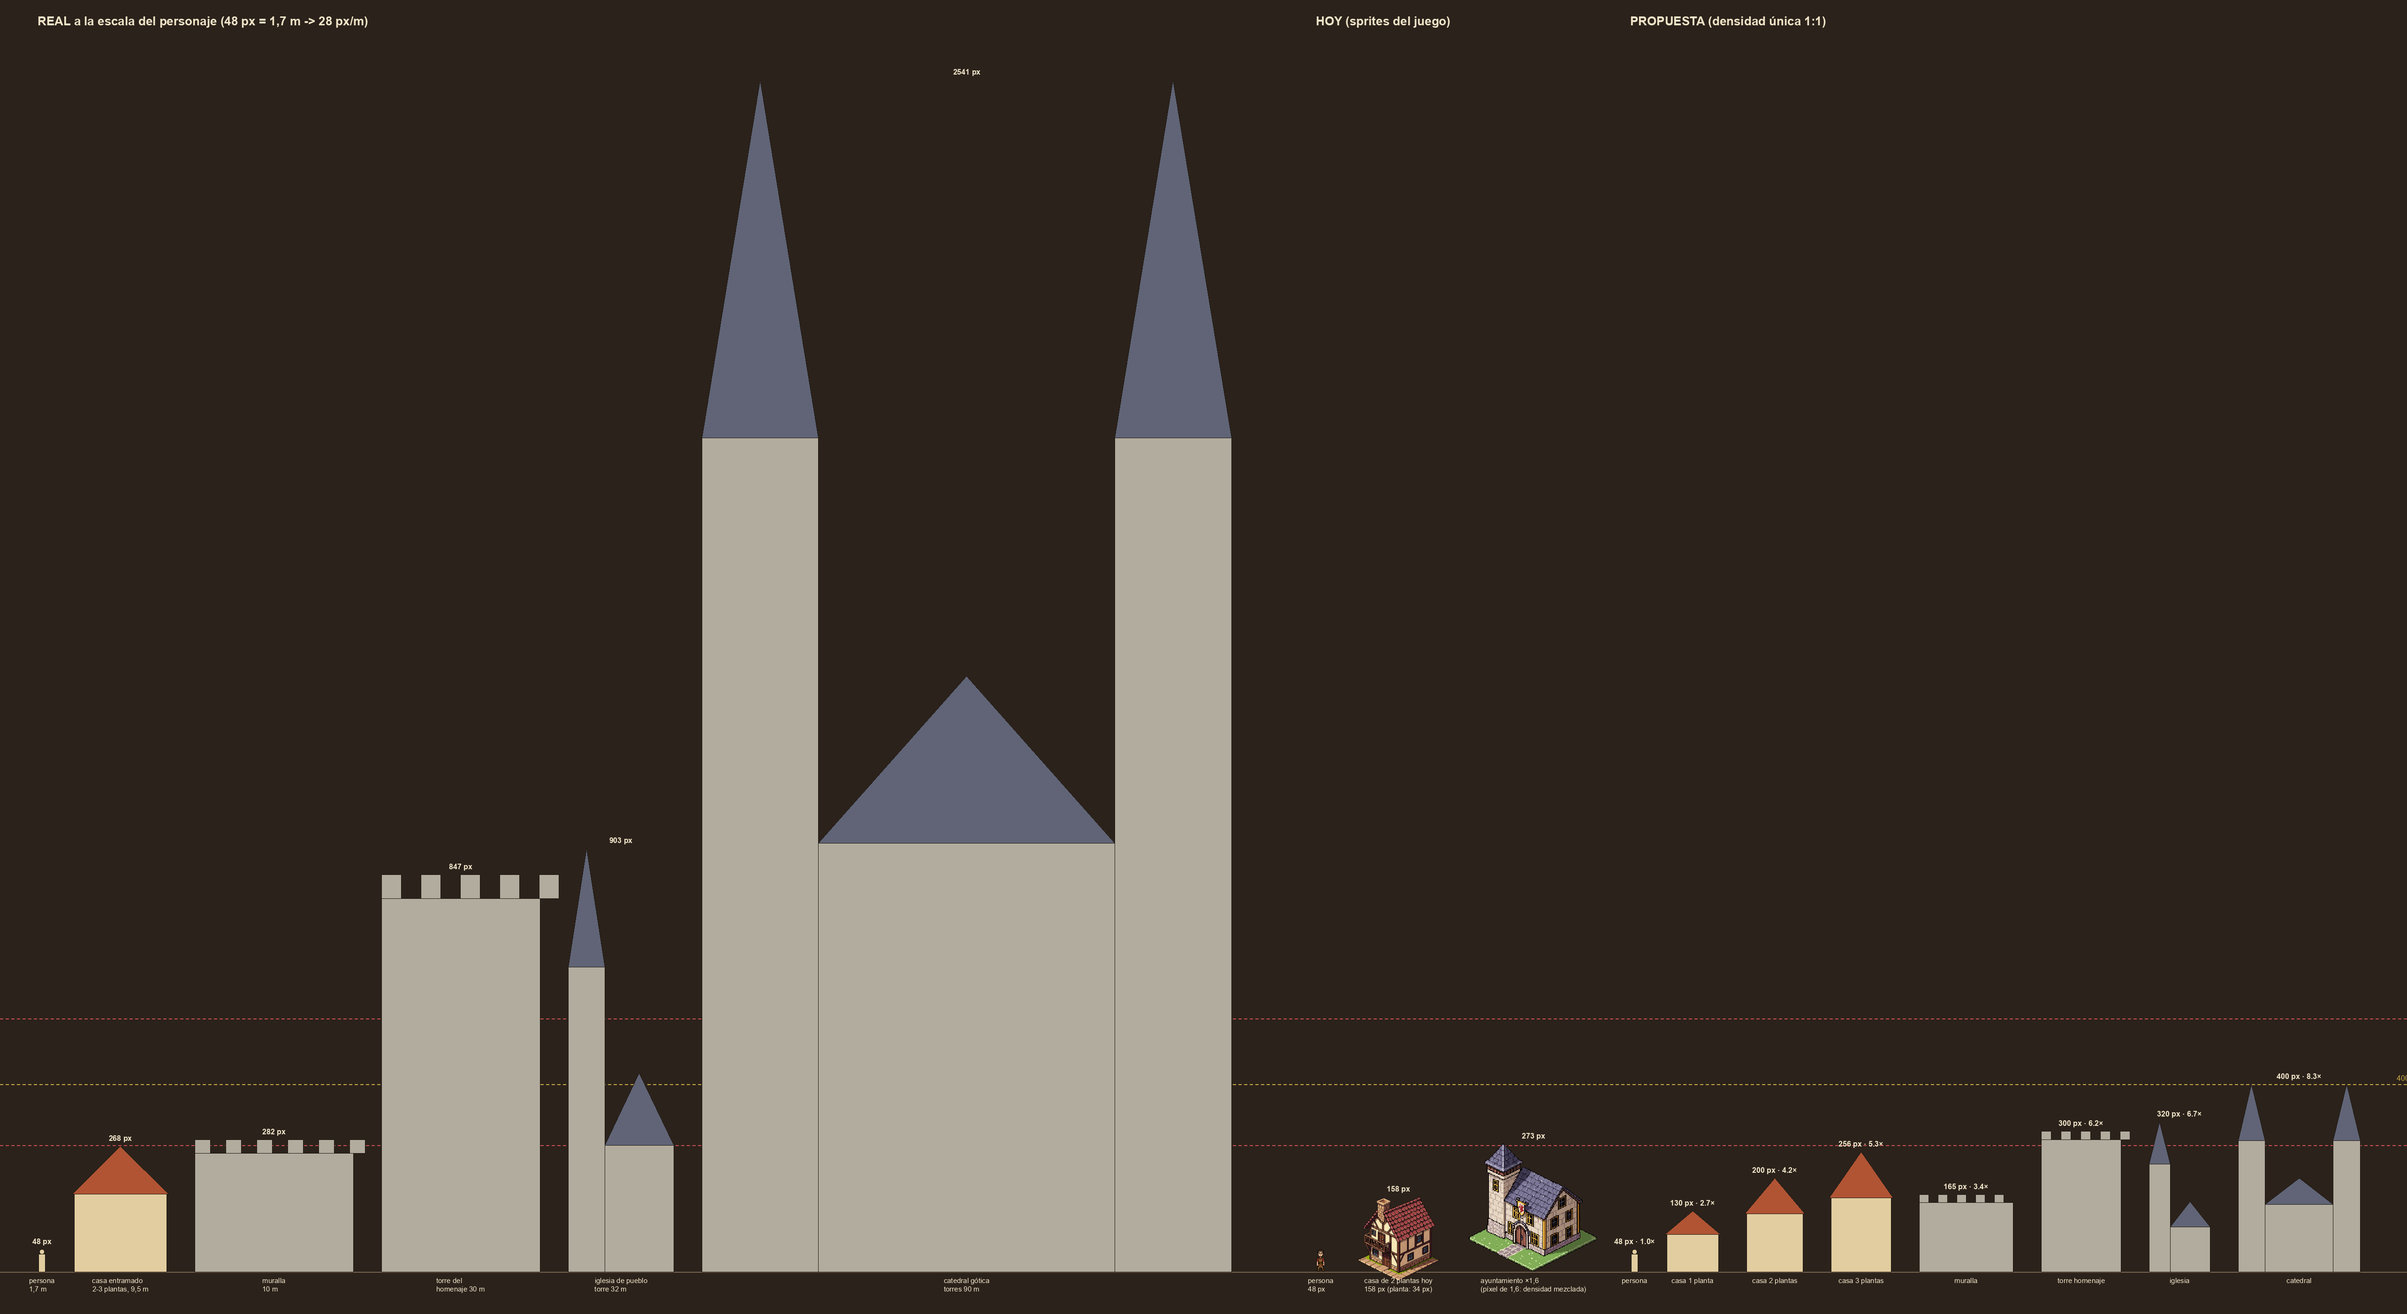
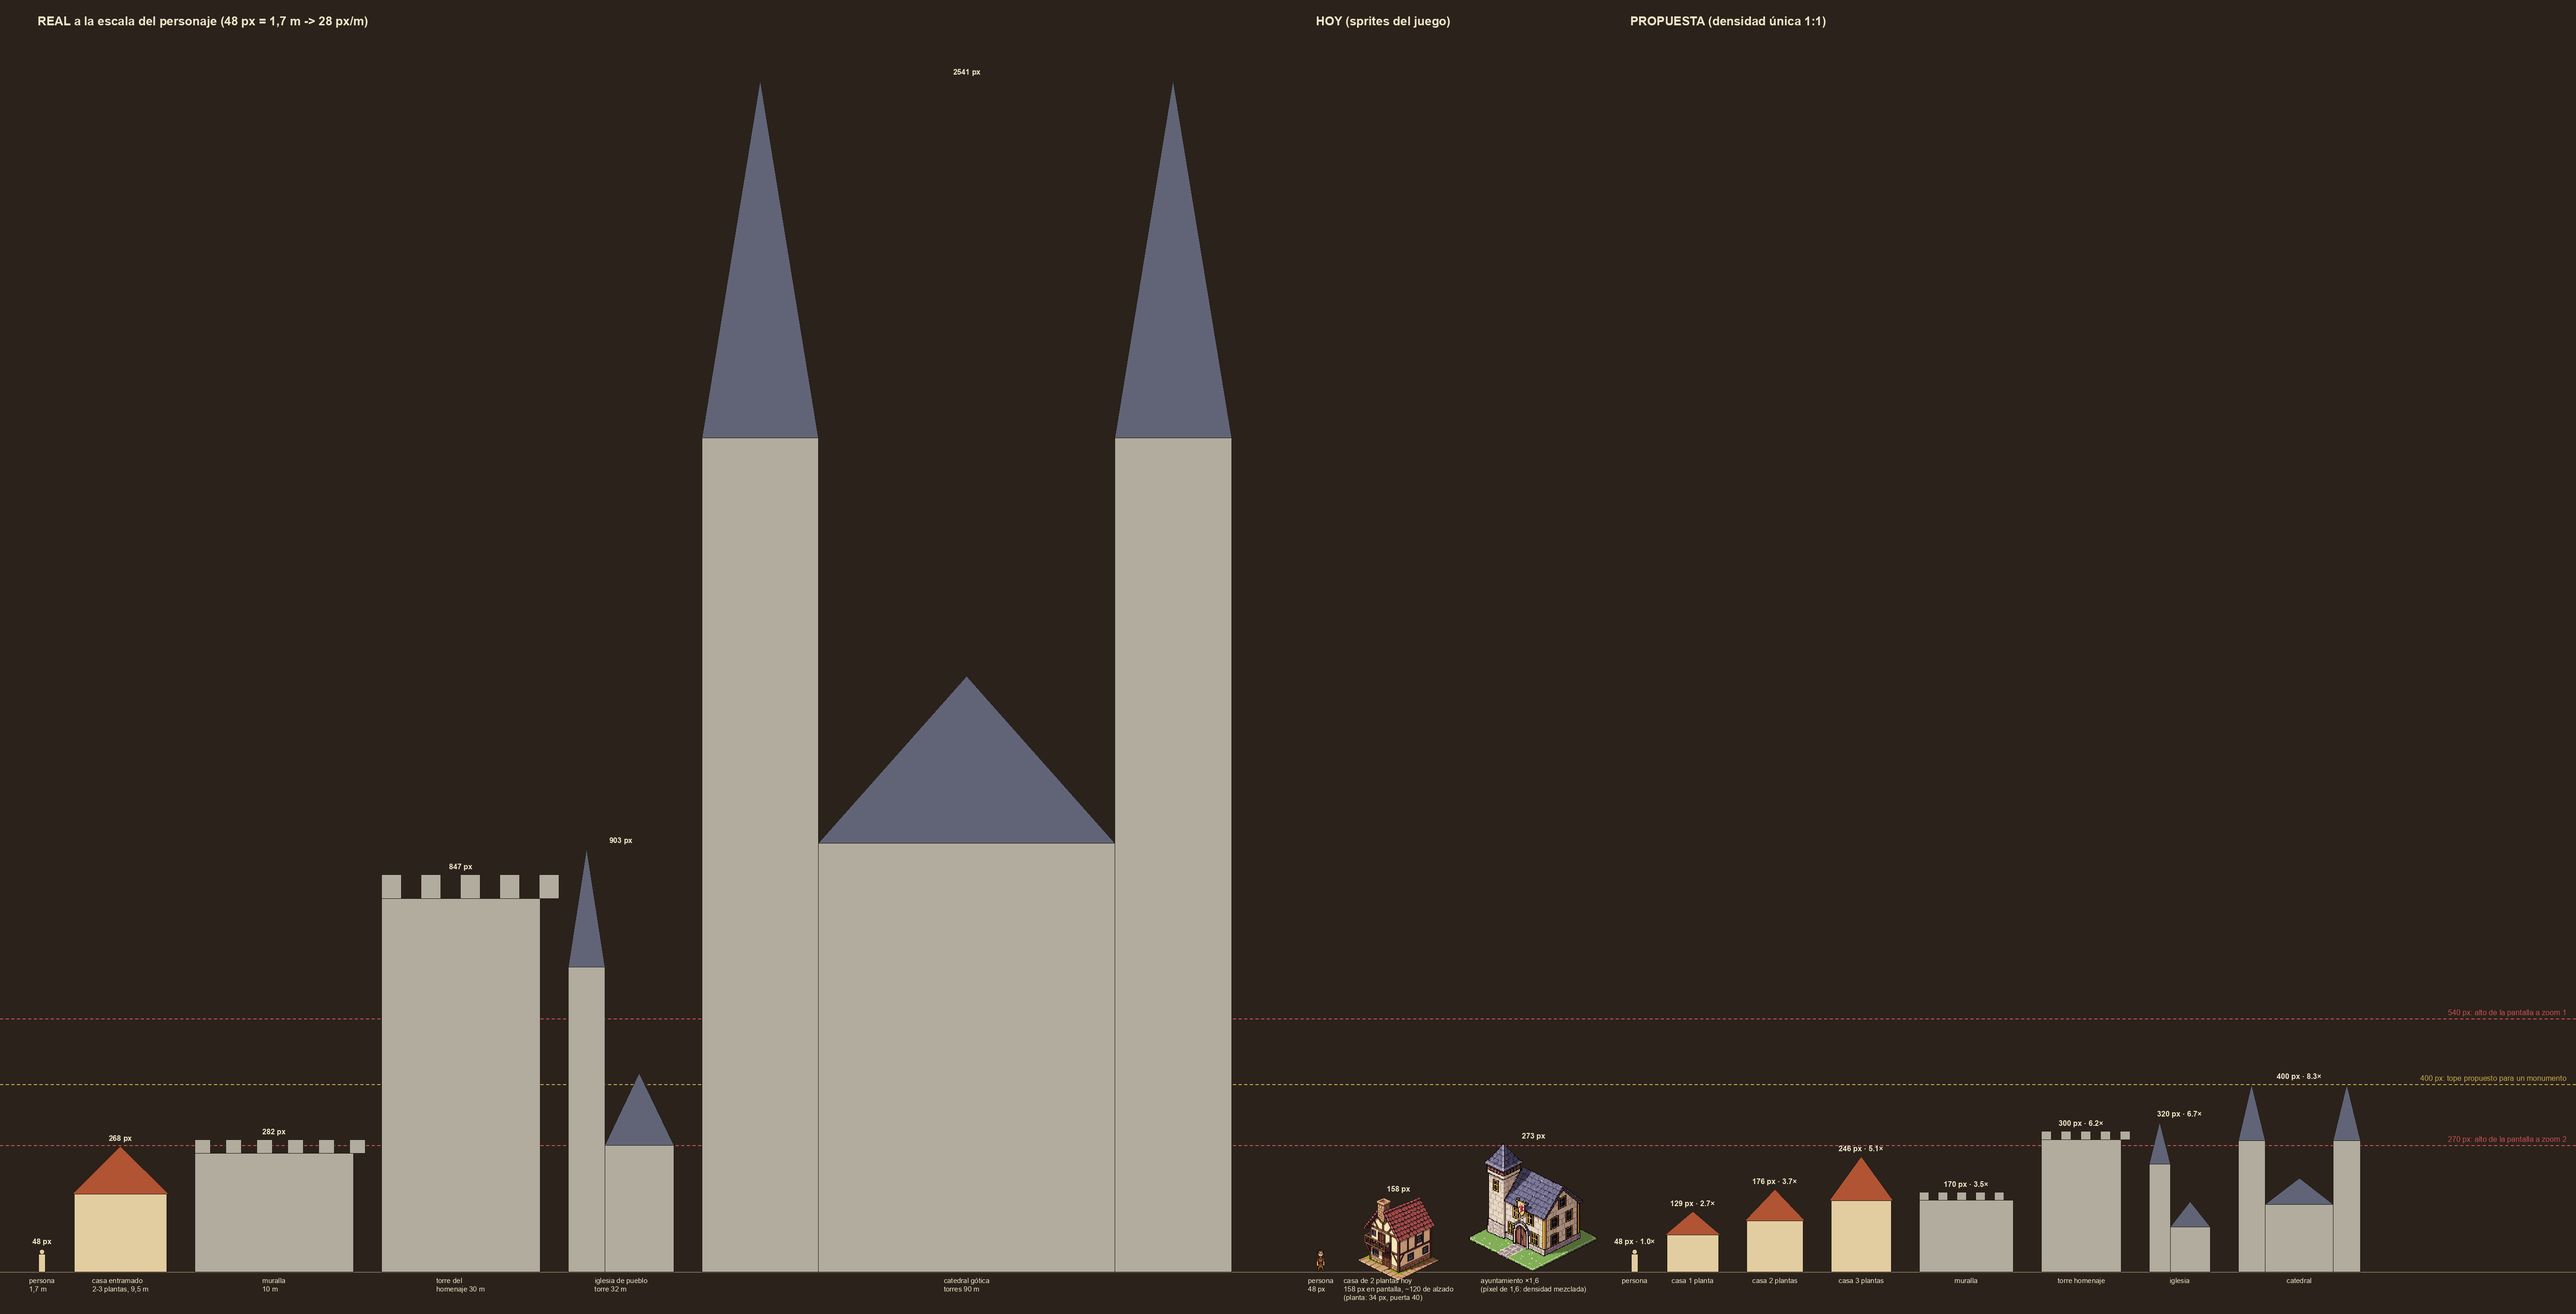
Escala: lámina 01 con las alturas de la propuesta B y etiquetas legibles

diff --git a/tools/art/escala.py b/tools/art/escala.py
@@ -325,10 +325,10 @@ def elevation_sheet():
     ]
     prop = [  # (nombre, alto px, ancho px, forma)
         ("persona", 48, 18, "person"),
-        ("casa 1 planta", 130, 110, "house"),
-        ("casa 2 plantas", 200, 120, "house"),
-        ("casa 3 plantas", 256, 128, "house"),
-        ("muralla", 165, 200, "wall"),
+        ("casa 1 planta", 129, 110, "house"),
+        ("casa 2 plantas", 176, 120, "house"),
+        ("casa 3 plantas", 246, 128, "house"),
+        ("muralla", 170, 200, "wall"),
         ("torre homenaje", 300, 170, "keep"),
         ("iglesia", 320, 130, "church"),
         ("catedral", 400, 260, "cathedral"),
@@ -337,7 +337,7 @@ def elevation_sheet():
            ("ayuntamiento ×1,6", 0, 0, "sprite:town_hall")]
     gap = 60
     widths_real = [max(int(w * PX_M), 18) for _, _, w, _ in real]
-    W = 120 + sum(widths_real) + gap * len(real) + 160 + 700 + 160 + sum(p[2] for p in prop) + gap * len(prop) + 80
+    W = 120 + sum(widths_real) + gap * len(real) + 160 + 700 + 160 + sum(p[2] for p in prop) + gap * len(prop) + 500
     H = int(90 * PX_M) + 260
     img = Image.new("RGBA", (W, H), BG)
     d = ImageDraw.Draw(img)
@@ -348,7 +348,6 @@ def elevation_sheet():
         col = (200, 80, 80, 255) if hpx != 400 else (200, 170, 70, 255)
         for x in range(0, W, 12):
             d.line([(x, base - hpx), (x + 6, base - hpx)], fill=col, width=2)
-        label(d, (W - 20, base - hpx - 22), txt, 16, col, anchor="ra")
     d.line([(0, base), (W, base)], fill=(120, 100, 80, 255), width=2)
 
     def shape(x, w, h, kind, fill):
@@ -404,7 +403,7 @@ def elevation_sheet():
     hx += 80
     hb = Image.open(os.path.join(ART, "buildings", "house_b.png")).convert("RGBA")
     img.alpha_composite(hb, (hx, base - 166))
-    label(d, (hx + 96, base + 10), "casa de 2 plantas hoy\n158 px (planta: 34 px)", 15)
+    label(d, (hx + 96, base + 10), "casa de 2 plantas hoy\n158 px en pantalla, ~120 de alzado\n(planta: 34 px, puerta 40)", 15)
     label(d, (hx + 96, base - 186), "158 px", 16, bold=True)
     hx += 230
     th = Image.open(os.path.join(ART, "buildings", "town_hall.png")).convert("RGBA")
@@ -419,7 +418,12 @@ def elevation_sheet():
         label(d, (x + wpx / 2, base + 10), name, 15)
         label(d, (x + wpx / 2, base - hpx - 26), f"{hpx} px · {hpx / CHAR_PX:.1f}×", 16, bold=True)
         x += wpx + gap
-    img = img.crop((0, 0, min(W, x + 40), H))
+    img = img.crop((0, 0, min(W, x + 400), H))
+    d = ImageDraw.Draw(img)
+    for hpx, txt in [(540, "540 px: alto de la pantalla a zoom 1"), (270, "270 px: alto de la pantalla a zoom 2"),
+                     (400, "400 px: tope propuesto para un monumento")]:
+        col = (200, 80, 80, 255) if hpx != 400 else (200, 170, 70, 255)
+        label(d, (img.width - 20, base - hpx - 22), txt, 16, col, anchor="ra")
     img.save(os.path.join(OUT, "01_alturas_real_hoy_propuesta.png"))
 
 
